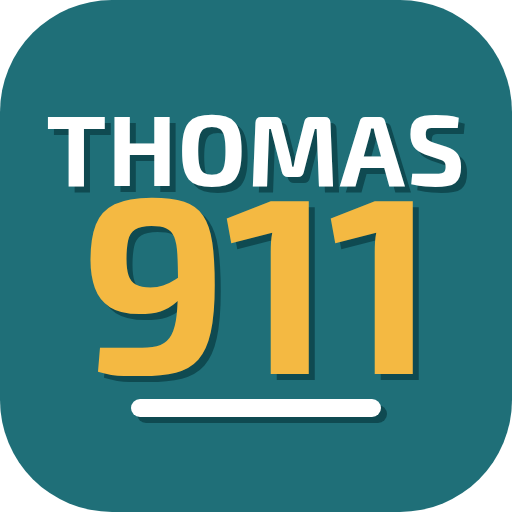
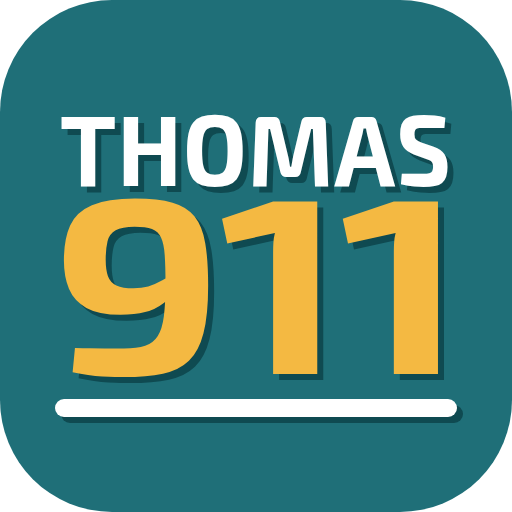
Icône : THOMAS et 911 de la même largeur
Claude-Session: https://claude.ai/code/session_01NnHgL6QFgoYbQVTE9XRNJG

diff --git a/sw.js b/sw.js
@@ -1,6 +1,6 @@
 // Keeps a copy of the app on the phone so it opens without network.
 // Change VERSION whenever a file changes, so phones pick up the new copy.
-const VERSION = "thomas911-v6";
+const VERSION = "thomas911-v7";
 const FILES = [
   "./",
   "./index.html",
